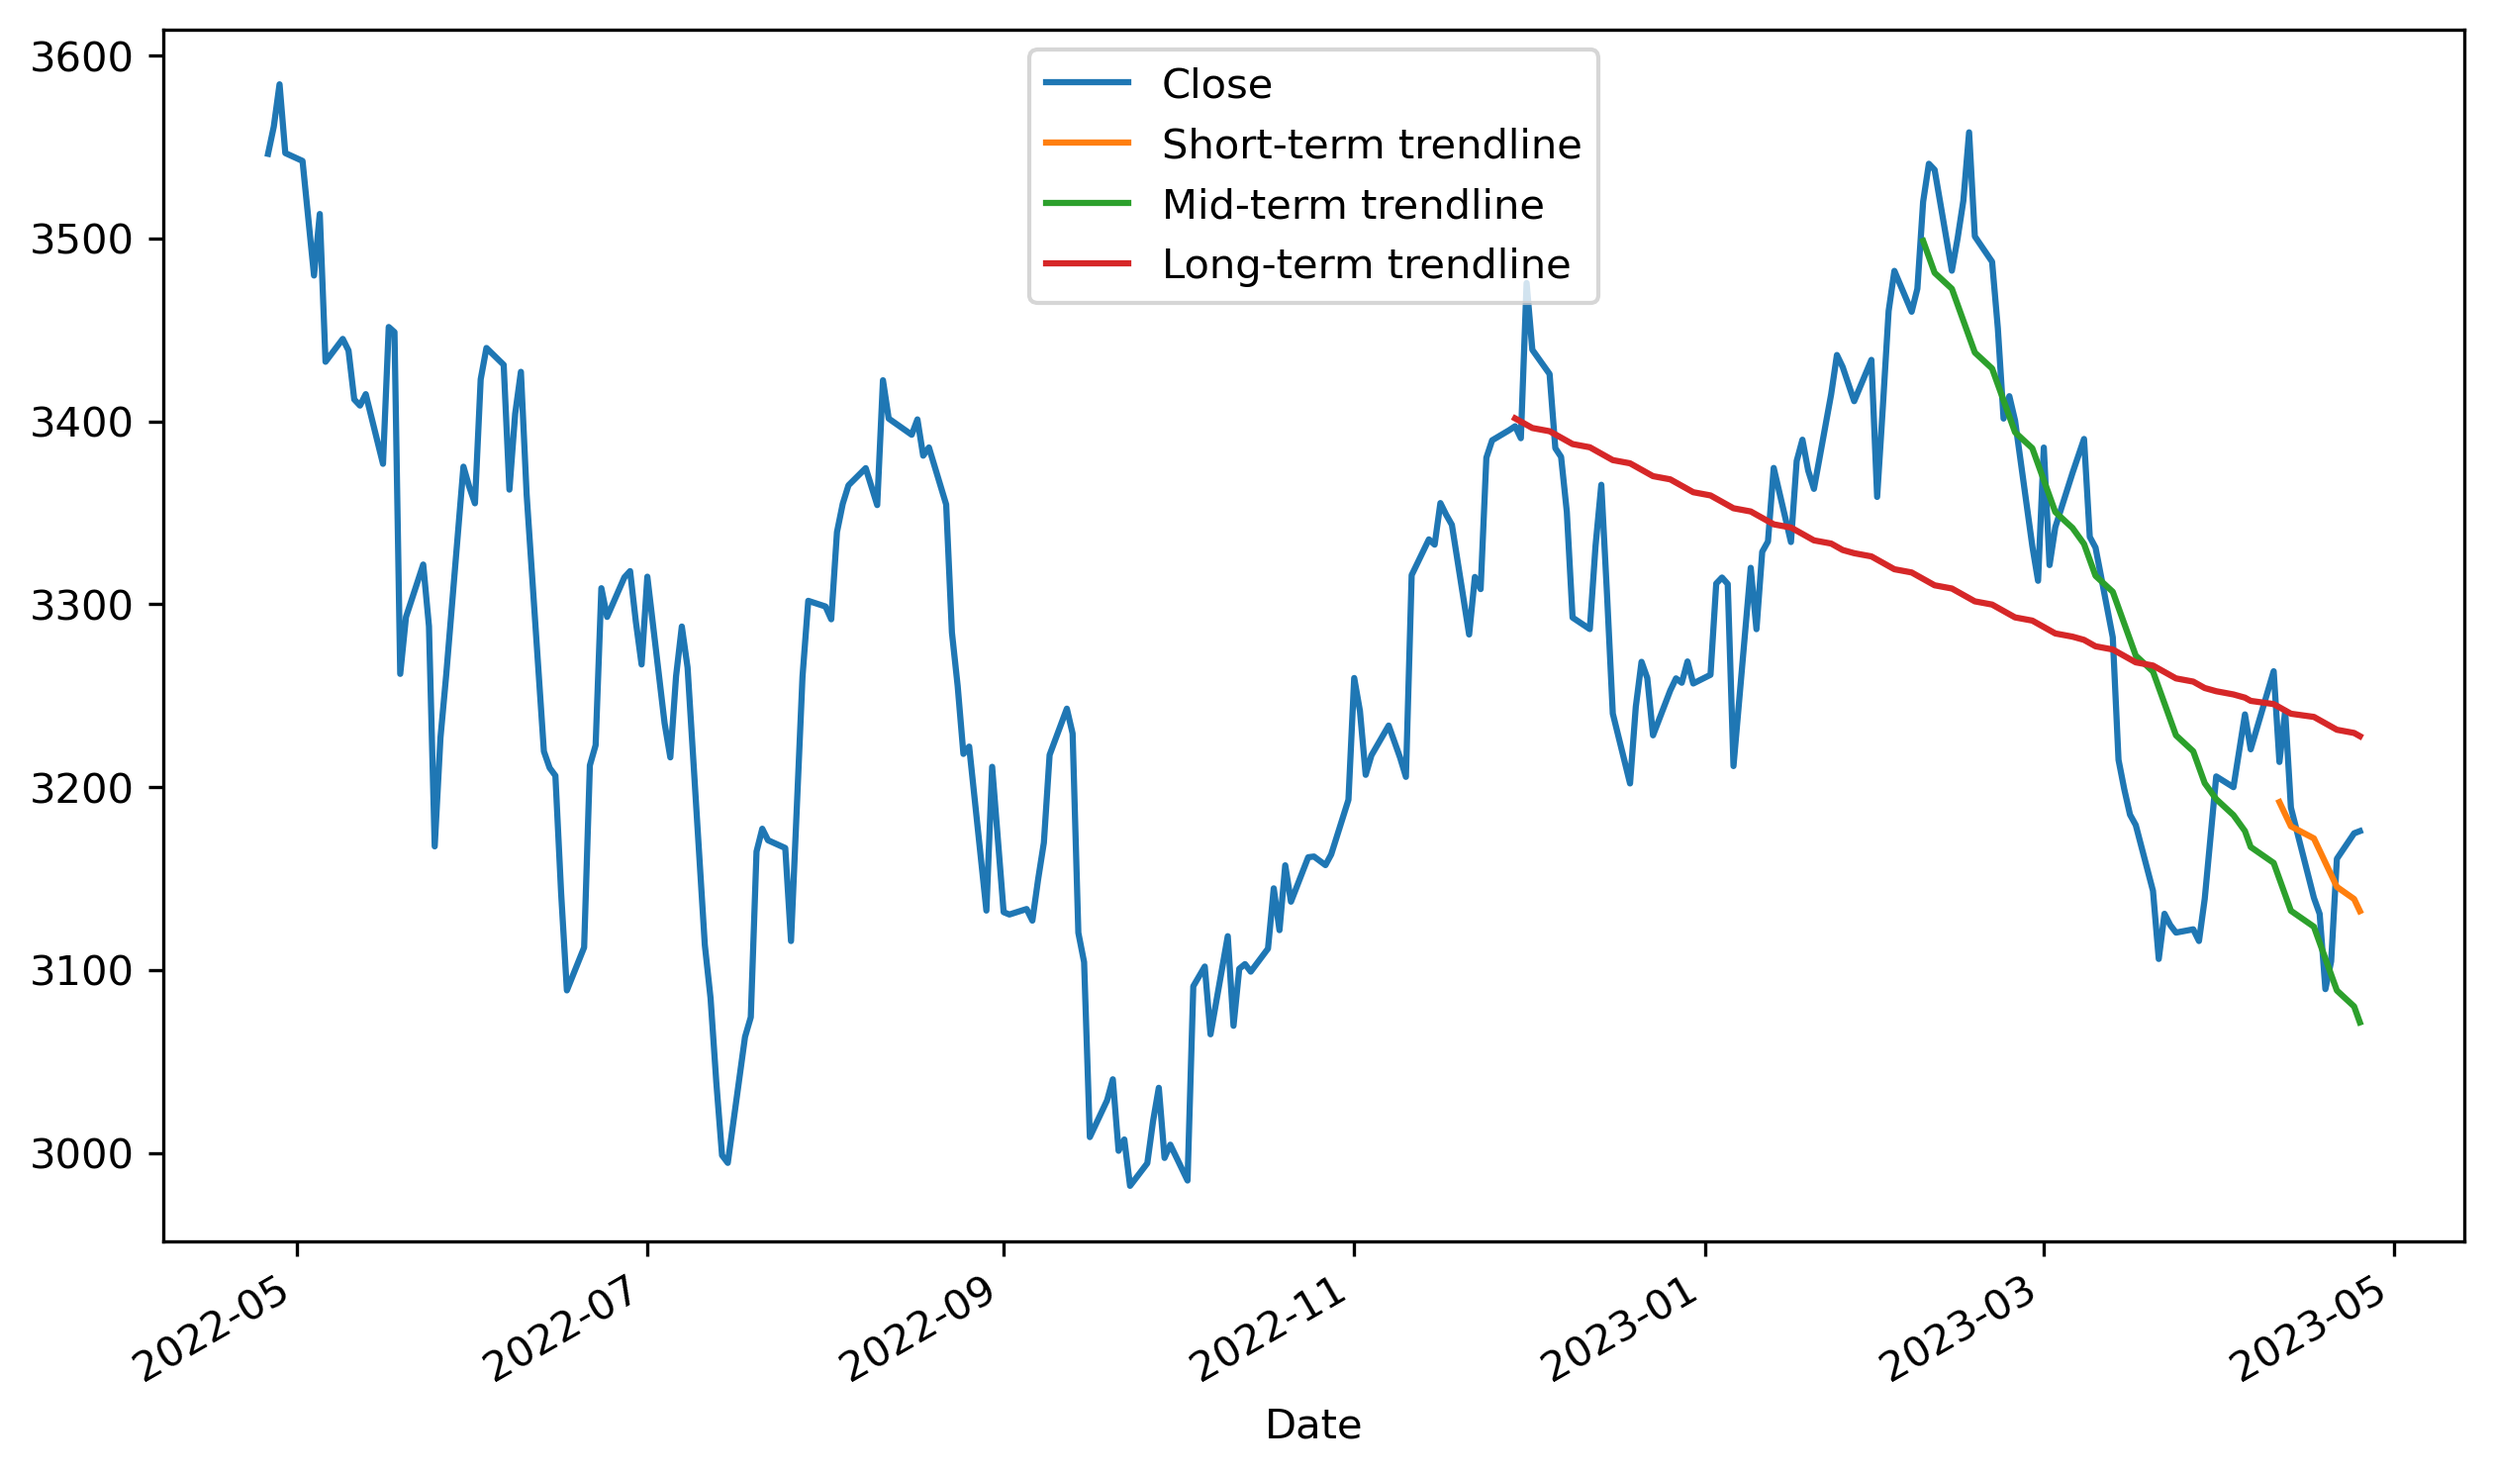
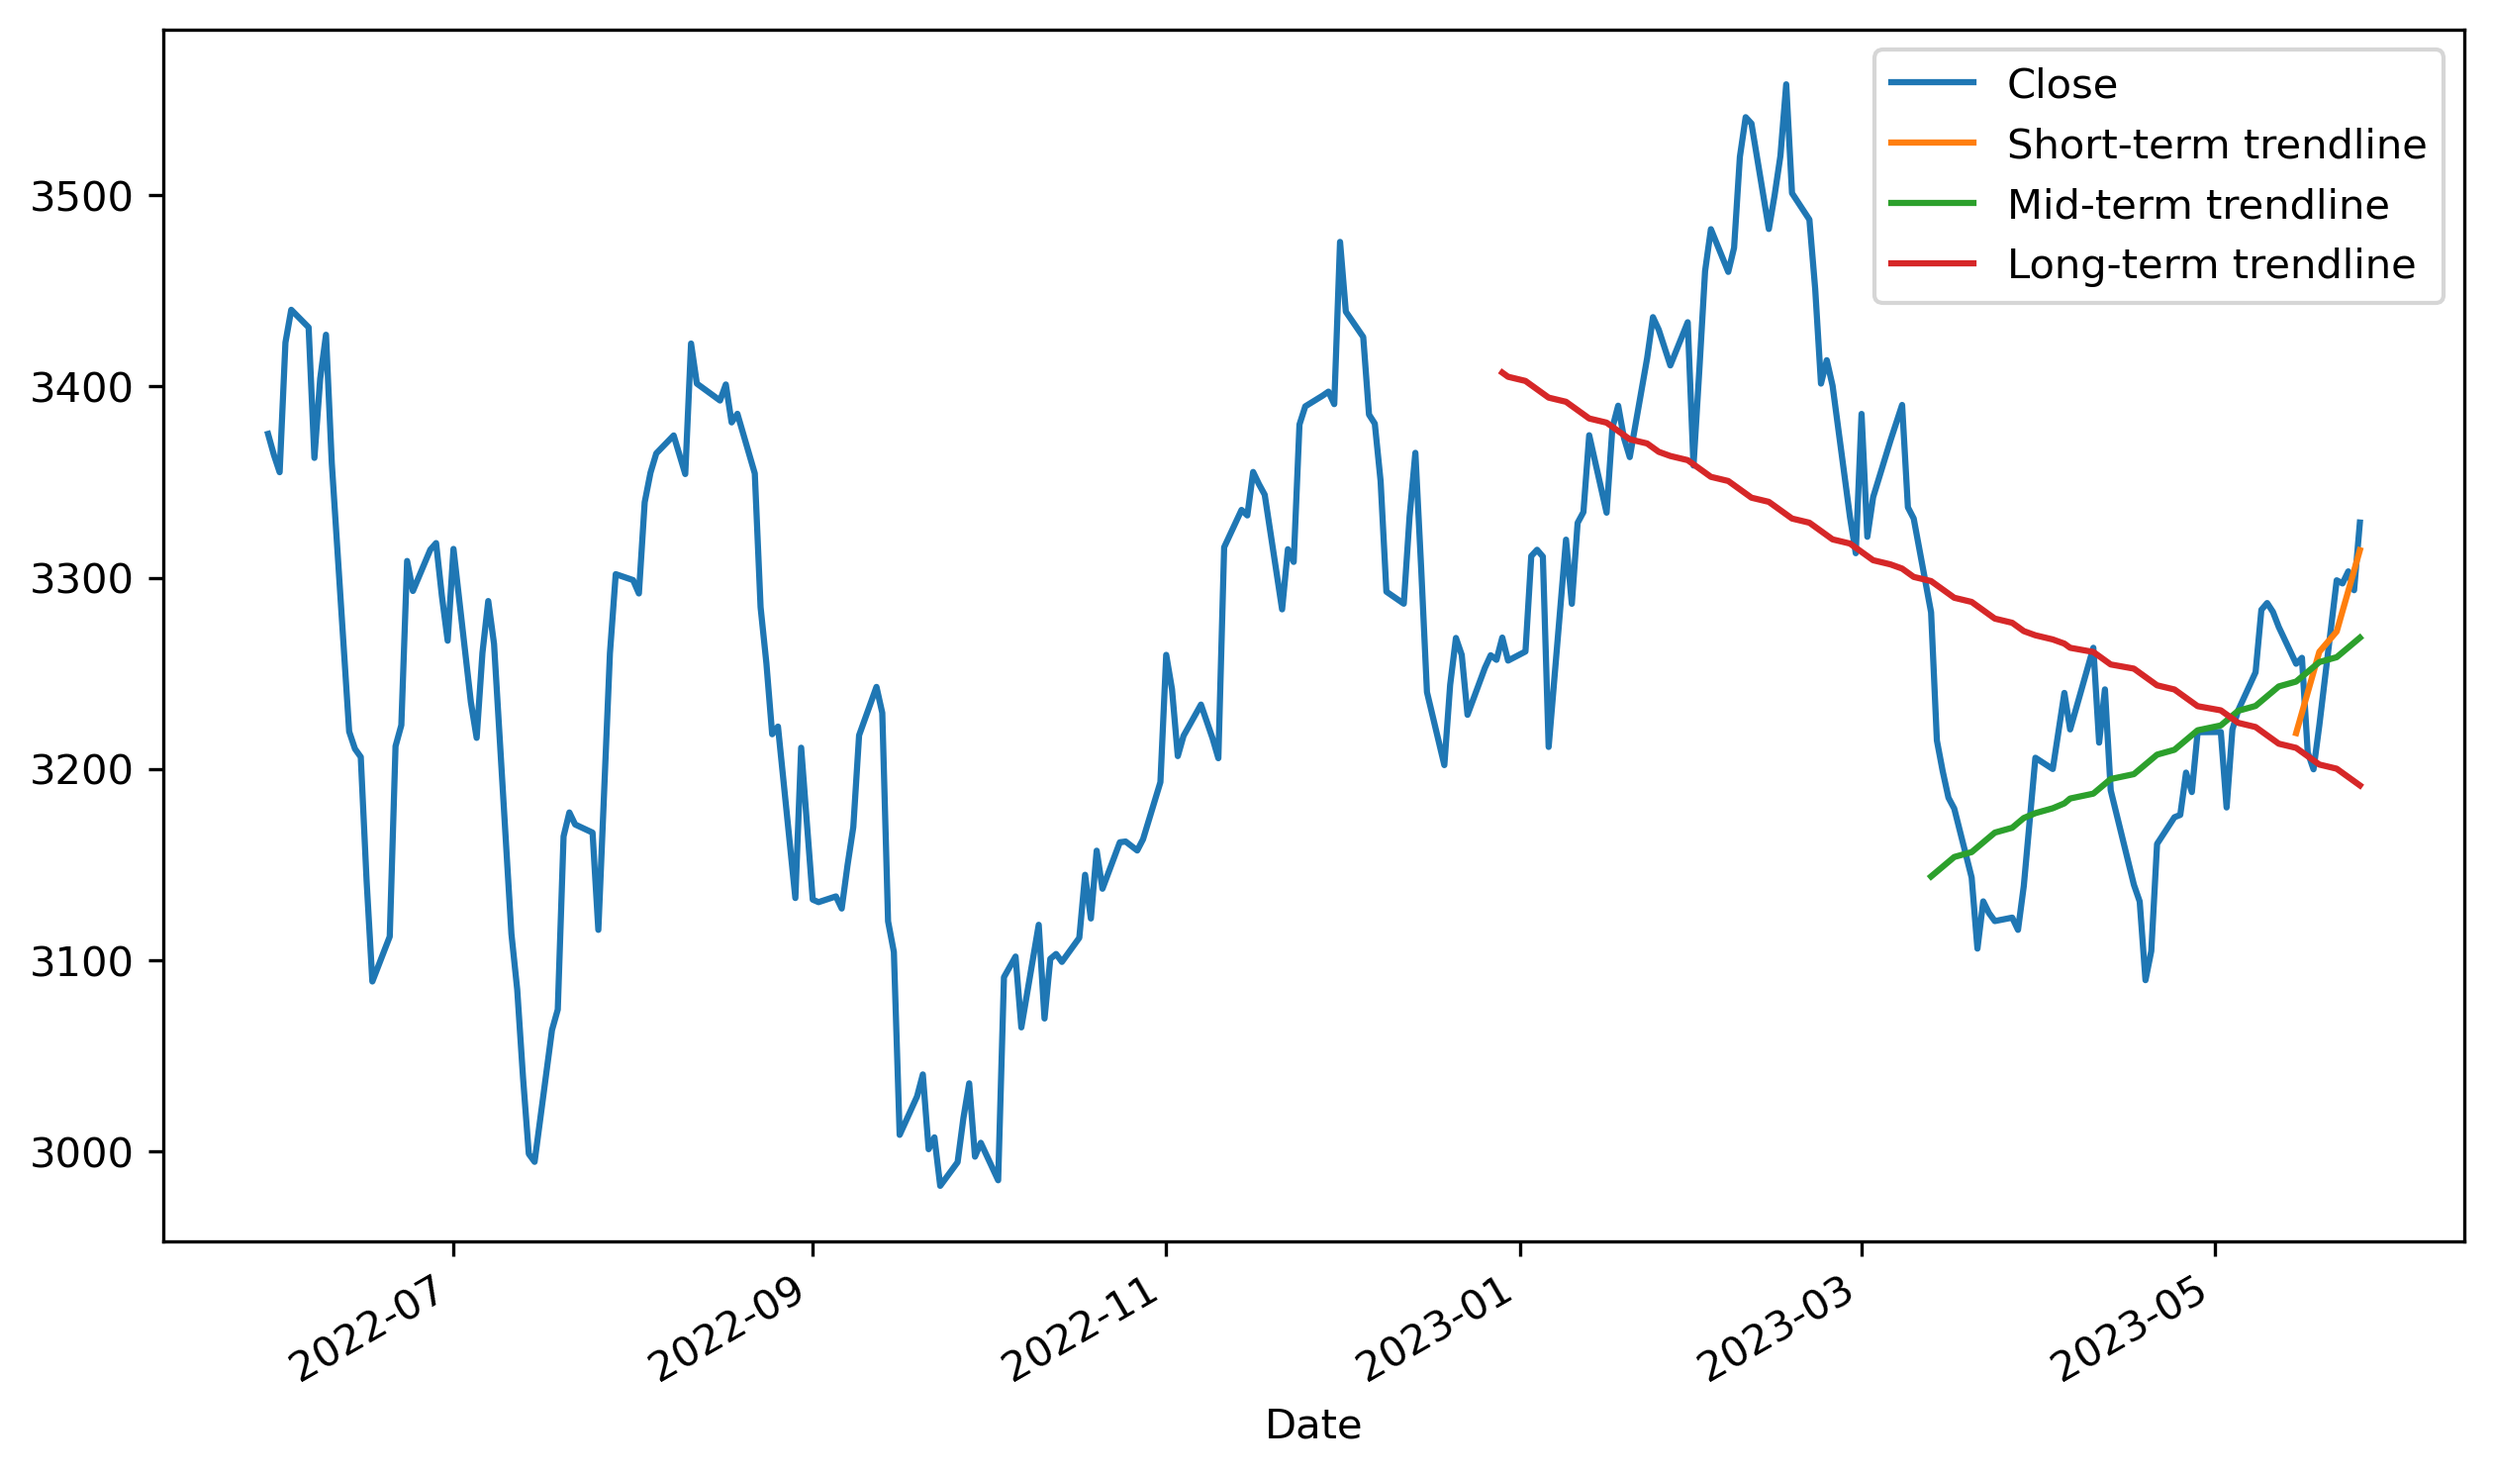
added check , if day is sunday

diff --git a/Bot.py b/Bot.py
@@ -2,9 +2,15 @@ import telegram
 from dotenv import load_dotenv
 import os
 import YFinance as YF
+from telegram.ext import Updater, CommandHandler, MessageHandler, Filters, ConversationHandler
+import pyautogui
 
+CHAT_ID = 727464642
 load_dotenv()
 TelegramBotCredential = os.environ.get('BOT_TOKEN')
+
+# Define states for the conversation handler
+START, WAITING_INPUT = range(2)
 
 import logging
 from telegram.ext import Updater, CommandHandler, MessageHandler, Filters
@@ -22,8 +28,23 @@ def start(update, context):
 def handle_message(update, context):
     text = str(update.message.text).lower()
 
+def screenshot(update, context):
+            current_x, current_y = pyautogui.position()
 
-def search(update, context):
+# Move the mouse by one pixel
+            pyautogui.move(1, 1)
+
+# Alternatively, you can move the mouse relative to its current position
+# pyautogui.moveRel(1, 1)
+
+# Optionally, you can return the mouse to its original position
+            pyautogui.moveTo(current_x, current_y)
+            screenshot = pyautogui.screenshot()
+            # Save the screenshot as a file
+            screenshot.save('screenshot.png')
+            context.bot.send_photo(chat_id=CHAT_ID, photo=open('screenshot.png', 'rb'), caption= "SS")
+
+def search_t(update, context):
     ticker = context.args[0]
 
     stock = YF.Stock(ticker)
@@ -36,22 +57,94 @@ def search(update, context):
         update.message.reply_text(f"last details : \n{stock.show_data()} ")
     # except Exception as e:
     #    logging.info(f"Failed to get stock data: {e} ")
+    
+
+    while True:
+        update.message.reply_text("Waiting for user input. Send 'exit' to stop.")
+        user_input = update.message.text.lower()
+
+        if user_input == 'exit':
+            break
+
+        if user_input == 'trend':
+            stock.set_period_values()
+            stock.trendline()
+            stock.plot_trends()
+            with open('plot.png', 'rb') as f:
+                context.bot.send_photo(chat_id=update.effective_chat.id, photo=f)
+
+
+def search_start(update, context):
+    ticker = context.args[0]
+    context.chat_data['ticker'] = ticker 
+    update.message.reply_text("Enter the ticker symbol to get stock details:")
+    return WAITING_INPUT
+
+
+def handle_user_input(update, context):
+    user_input = update.message.text.lower()
+
+    if user_input == 'exit':
+        update.message.reply_text("Exiting the search.")
+        return ConversationHandler.END
+
+    if user_input == 'trend':
+        # Perform trend-related actions here
+        ticker = context.chat_data.get('ticker')  # Retrieve the ticker from chat_data
+        update.message.reply_text(f"getting Data for {ticker}")
+
+        if ticker:
+            stock = YF.Stock(ticker)
+            stock.get_data()
+
+            if stock.data is None:
+                update.message.reply_text(f"Failed to get Data for {ticker}")
+                logging.info("Failed to get stock data")
+            else:
+                stock.set_period_values()
+                stock.trendline()
+                stock.plot_trends()
+                with open('plot.png', 'rb') as f:
+                    context.bot.send_photo(chat_id=update.effective_chat.id, photo=f)
+        else:
+            update.message.reply_text(f"Failed to get ticker. Please search again")
+
+    # Return to waiting for input state
+    update.message.reply_text("Waiting for user input. Send 'exit' to stop.")
+    return WAITING_INPUT
 
 
 #
 
 
 # dispatcher.add_handler(MessageHandler( Filters.text, handle_message ))
-#  with open('plot.png', 'rb') as f:
-#     context.bot.send_photo(chat_id=update.effective_chat.id, photo=f)
+
 
 
 def main():
     updater = Updater(TelegramBotCredential)
     dispatcher = updater.dispatcher
 
+    # # Creating a conversation handler
+    # conv_handler = telegram.ext.ConversationHandler(
+    #     entry_points=[CommandHandler("search", search)],
+    #     states={
+    #         WAITING_INPUT: [MessageHandler(Filters.text, handle_user_input)]
+    #     },
+    #     fallbacks=[CommandHandler("exit", exit)]
+    # )
+        # Creating a conversation handler
+    conv_handler = ConversationHandler(
+        entry_points=[CommandHandler("search", search_start)],
+        states={
+            WAITING_INPUT: [MessageHandler(Filters.text, handle_user_input)]
+        },
+        fallbacks=[]
+    )
+
     dispatcher.add_handler(CommandHandler("start", start))
-    dispatcher.add_handler(CommandHandler("search", search))
+    dispatcher.add_handler(CommandHandler("screenshot", screenshot))
+    dispatcher.add_handler(conv_handler)
 
     updater.start_polling()
     updater.idle()

diff --git a/YFinance.py b/YFinance.py
@@ -22,11 +22,13 @@ class Stock:
         self.short_term_period = None
         self.mid_term_period = None
         self.long_term_period = None
-
+ 
+ # Downloading data from yfinance
     def get_data(self):
         self.data = yf.download(self.ticker, start=self.start_date, end=self.end_date)
         self.df = pd.DataFrame(self.data)
 
+# Returning last trading day data
     def show_data(self, period=1):
         return self.df.tail(period).T.apply(lambda x: round(x, 2))
 
@@ -42,7 +44,7 @@ class Stock:
         macd = ta.trend.MACD(stock.df['Close'], window_fast=macd_fast, window_slow=macd_slow, window_sign=macd_signal)
         stock.df['MACD'] = macd.macd()
         stock.df['MACD_signal'] = macd.macd_signal()
-        stock.df['MACD Above Signal'] = stock.df['MACD'] > stock.df['MACD_signal']
+        #stock.df['MACD Above Signal'] = stock.df['MACD'] > stock.df['MACD_signal']
 
     # Define a function to calculate the slope and y-intercept of a trendline
 
@@ -63,15 +65,7 @@ class Stock:
         self.mid_term_trendline = calculate_trendline(self.df, self.mid_term_period)
         self.long_term_trendline = calculate_trendline(self.df, self.long_term_period)
 
-    # Calculate the short-term trendline using linear regression
-
-    # # Calculate the mid-term trendline using linear regression
-    # mid_term_trendline = calculate_trendline(np.arange(len(df['Close']))[-mid_term_period:], df['Close'][-mid_term_period:])
-
-    # # Calculate the long-term trendline using linear regression
-    # long_term_trendline = calculate_trendline(np.arange(len(df['Close']))[-long_term_period:], df['Close'][-long_term_period:])
-
-    # # Plot the price data and trendlines
+        # # Plot the price data and trendlines
     def plot_trends(self):
         # if self.short_term_trendline == None:
         #     trendline()
@@ -88,14 +82,65 @@ class Stock:
         # plt.show()
 
 
+
+class Trends(Stock):
+    def __init__(self, name='', interval=365):
+        super().__init__(name, interval)
+        self.long_term_period = None
+        self.short_term_period = None
+        self.mid_term_period = None
+    
+    def set_period_values(self, st=10, mt=50, lt=100):
+        self.short_term_period = st
+        self.mid_term_period = mt
+        self.long_term_period = lt
+
+    def linear_regression_trendline(self):
+        def trend_data(x, y):
+            slope, intercept, r_value, p_value, std_err = linregress(x, y)
+            return slope * x + intercept
+
+        def calculate_trendline(df, period):
+            return trend_data(np.arange(len(df['Close']))[-period:], df['Close'][-period:])
+
+        self.short_term_trendline = calculate_trendline(self.df, self.short_term_period)
+        self.mid_term_trendline = calculate_trendline(self.df, self.mid_term_period)
+        self.long_term_trendline = calculate_trendline(self.df, self.long_term_period)
+
+    def volume_trend(stock,window):
+        stock.df['VolumeAvg{}'.format(window)] = stock.df['Volume'].rolling(window=window).mean()
+    
+    def macd_trend(stock):
+        stock.df['MACD Above Signal'] = stock.df['MACD'] > stock.df['MACD_signal']
+        stock.df['MACD Factor'] = stock.df['MACD'] - stock.df['MACD_signal']
+    
+    # Plotting  
+    def plot_trends(self):
+        # if self.short_term_trendline == None:
+        #     trendline()
+
+        fig, ax = plt.subplots(figsize=(10, 6))
+
+        self.df['Close'].plot(ax=ax, label='Close')
+        ax.plot(self.df.index[-self.short_term_period:], self.short_term_trendline, label='Short-term trendline')
+        ax.plot(self.df.index[-self.mid_term_period:], self.mid_term_trendline, label='Mid-term trendline')
+        ax.plot(self.df.index[-self.long_term_period:], self.long_term_trendline, label='Long-term trendline')
+
+        ax.legend()
+        plt.savefig('plot.png', dpi=300, bbox_inches='tight')
+        
+        #plt.show()
+
+
+
 def main():
     tcs = Stock('TCS.NS')
 
     tcs.get_data()
     tcs.show_data()
-#    tcs.set_period_values()
-#    tcs.trendline()
-#    tcs.plot_trends()
+    tcs.set_period_values()
+    tcs.trendline()
+    tcs.plot_trends()
 
 
 if __name__ == '__main__':

diff --git a/BITS_Class.py b/BITS_Class.py
@@ -28,9 +28,9 @@ itInfra =      'https://teams.microsoft.com/l/meetup-join/19%3ae8643548da9349b39
 webTech =      'https://teams.microsoft.com/l/meetup-join/19%3a52704304e0aa4bf596aaa276eac1c398%40thread.tacv2/1681036071776?context=%7b%22Tid%22%3a%22e24ac094-efd8-4a6b-98d5-a129b32a8c9a%22%2c%22Oid%22%3a%22b86d8394-7d7f-455e-b7ea-7416d0412e1f%22%7d'
 
 lst=[
-     [ itInfra , 855, 1035],
+     [  itInfra, 855, 1035],
      [ cloudComp, 1055, 1230],
-     [ advNetwork, 1355, 1530],
+     [  advNetwork, 1355, 1530],
      [ webTech, 1555, 1735]
      ]
 
@@ -43,6 +43,19 @@ i=0
 time_left=0
 
 is_class_started =False
+sunday = True
+while sunday:
+    today = datetime.now().weekday()
+    if today != 6:  # Sunday is represented by 6
+        print("Today is not Sunday.")
+        bot.send_message(chat_id=CHAT_ID, text=f"sleeping for {600} secs. Today is not Sunday.")
+        time.sleep(600)
+    else:
+        print("Today is Sunday.")
+        
+        bot.send_message(chat_id=CHAT_ID, text=f"Entering lectures. Today is Sunday.")
+        
+        sunday = False
 
 for lecture  in lst:
     while True:
@@ -75,18 +88,25 @@ for lecture  in lst:
         elif   (datetime.now().hour*100 + datetime.now().minute < lecture[1]):
             
             time_left=lecture[1]-(datetime.now().hour*100 + datetime.now().minute)
-            bot.send_message(chat_id=CHAT_ID, text=f"sleeping for {time_left*10} secs. Next class to join {lecture}")
-            time.sleep(time_left*10) 
+            if time_left > 10:
+                bot.send_message(chat_id=CHAT_ID, text=f"sleeping for {time_left*10} secs. Next class to join {lecture}")
+                time.sleep(time_left*10) 
+            else :
+                time.sleep(time_left*10)
             
         while is_class_started:
             time_left=lecture[2]-(datetime.now().hour*100 + datetime.now().minute)
             print(f"sleeping for {time_left*10} secs")
-            time.sleep(600)       #class joined, sleeping for the class period
-            # Take a screenshot
-            screenshot = pyautogui.screenshot()
-            # Save the screenshot as a file
-            screenshot.save('screenshot.png')
-            bot.send_photo(chat_id=CHAT_ID, photo=open('screenshot.png', 'rb'))
+            if time_left > 10:
+                time.sleep(600)       #class joined, sleeping for the class period
+                
+                # Take a screenshot
+                screenshot = pyautogui.screenshot()
+                # Save the screenshot as a file
+                screenshot.save('screenshot.png')
+                bot.send_photo(chat_id=CHAT_ID, photo=open('screenshot.png', 'rb'))
+            else:
+                time.sleep(time_left*30)
             
             if time_left <= 0:              #exiting
                 is_class_started=False
